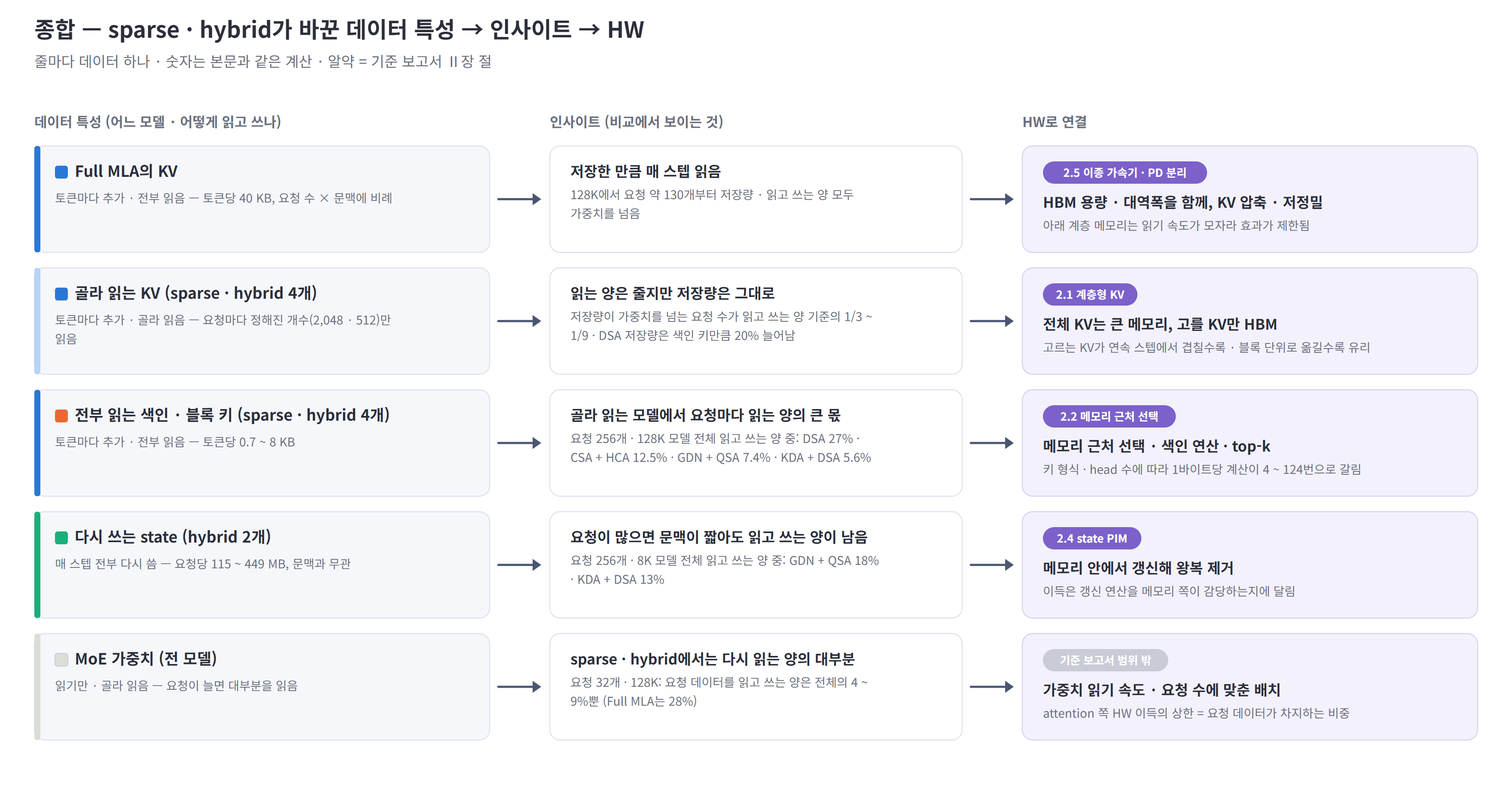
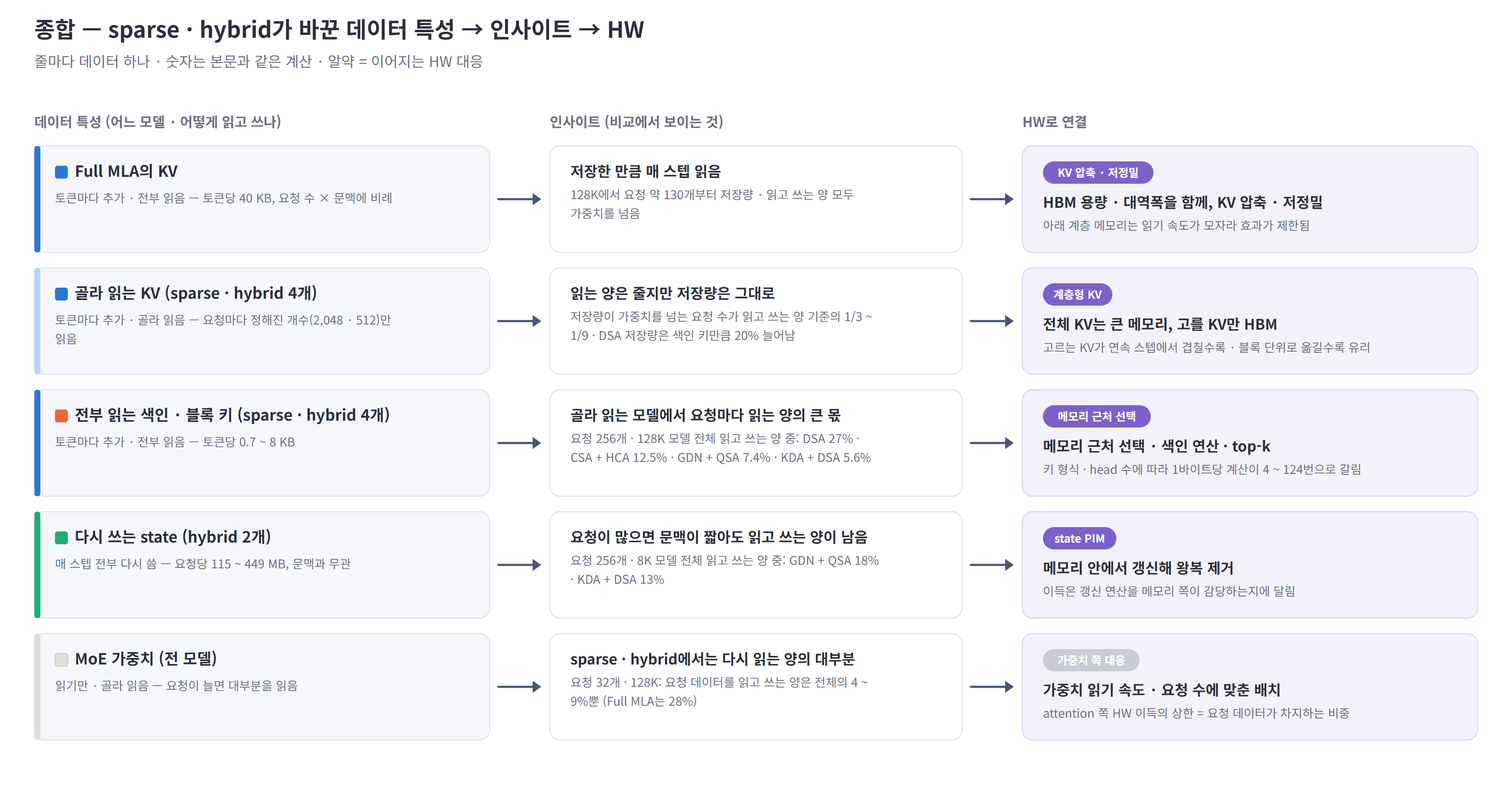
docs(dataflow): make the two synthesis reports self-contained
- Drop every mention of and link to the base report (Ⅱ장 section numbers,
  "기준 보고서 범위 밖", the 출발 보고서 comparison appendix)
- Drop links to per-model reports, to each other and to code; tool names
  stay as plain text in the analysis-conditions appendix
- HW pills in synthesis/compute figures show plain HW names
  (계층형 KV, state PIM, KV 압축 · 저정밀, attention 연산 분리 ...)
  via plain_secs(); shared make_criteria_figs keeps its default, so the
  per-model report figures are unchanged
- Re-letter the memory report appendix (C removed: D-G -> C-F)

diff --git a/arch_insight/dataflow-claude/report/make_synthesis_report.py b/arch_insight/dataflow-claude/report/make_synthesis_report.py
@@ -20,6 +20,7 @@ synth-sum             정리 — 특성 → 인사이트 → HW
 import math
 import os
 import sys
+from contextlib import contextmanager
 
 HERE = os.path.dirname(os.path.abspath(__file__))
 sys.path.insert(0, os.path.join(HERE, "..", "tools"))
@@ -558,7 +559,7 @@ TAKE = {
 SUM_ROWS = [
     ("Full MLA의 KV", "blue", "app_all", "토큰마다 추가 · 전부 읽음 — 토큰당 40 KB, 요청 수 × 문맥에 비례",
      "저장한 만큼 매 스텝 읽음", "128K에서 요청 약 130개부터 저장량 · 읽고 쓰는 양 모두 가중치를 넘음",
-     "HBM 용량 · 대역폭을 함께, KV 압축 · 저정밀", "아래 계층 메모리는 읽기 속도가 모자라 효과가 제한됨", "2.5"),
+     "HBM 용량 · 대역폭을 함께, KV 압축 · 저정밀", "아래 계층 메모리는 읽기 속도가 모자라 효과가 제한됨", "kv"),
     ("골라 읽는 KV (sparse · hybrid 4개)", "blue", "app_sel", "토큰마다 추가 · 골라 읽음 — 요청마다 정해진 개수(2,048 · 512)만 읽음",
      "읽는 양은 줄지만 저장량은 그대로", "저장량이 가중치를 넘는 요청 수가 읽고 쓰는 양 기준의 1/3 ~ 1/9 · DSA 저장량은 색인 키만큼 20% 늘어남",
      "전체 KV는 큰 메모리, 고를 KV만 HBM", "고르는 KV가 연속 스텝에서 겹칠수록 · 블록 단위로 옮길수록 유리", "2.1"),
@@ -586,7 +587,7 @@ def fig_sum():
     TOP = 170
     f = mr.Fig("synth-sum", W, TOP + sum(h_of(r) + 18 for r in rows) + 60)
     mr.title(f, "종합 — sparse · hybrid가 바꾼 데이터 특성 → 인사이트 → HW",
-             "줄마다 데이터 하나 · 숫자는 본문과 같은 계산 · 알약 = 기준 보고서 Ⅱ장 절")
+             "줄마다 데이터 하나 · 숫자는 본문과 같은 계산 · " + SEC_NOTE_PLAIN)
     for x, t in zip(X, ("데이터 특성 (어느 모델 · 어떻게 읽고 쓰나)", "인사이트 (비교에서 보이는 것)", "HW로 연결")):
         f.text(x, TOP - 22, t, 16, weight=700, color=mr.MUTED)
     y = TOP
@@ -629,6 +630,23 @@ PLAIN = [
     ("보관이 늘어남", "저장량이 늘어남"), ("read-only", "읽기만"), ("끝에 추가", "토큰마다 추가"),
     ("요청별 · ", "요청마다 · "),
 ]
+
+
+# HW 알약 — 종합 보고서는 다른 문서 절 번호 없이 대응 이름만
+SECS_PLAIN = {"2.1": "계층형 KV", "2.2": "메모리 근처 선택", "2.3": "색인 연산 · top-k", "2.4": "state PIM",
+              "2.5": "이종 가속기 · PD 분리", "-": "가중치 쪽 대응", "x": "대응 대상 아님",
+              "kv": "KV 압축 · 저정밀", "attn": "attention 연산 분리"}
+SEC_NOTE_PLAIN = "알약 = 이어지는 HW 대응"
+
+
+@contextmanager
+def plain_secs():
+    old = cf.SECS, cf.SEC_NOTE
+    cf.SECS, cf.SEC_NOTE = SECS_PLAIN, SEC_NOTE_PLAIN
+    try:
+        yield
+    finally:
+        cf.SECS, cf.SEC_NOTE = old
 
 
 def plain(v):
@@ -688,6 +706,7 @@ if __name__ == "__main__":
         fig_ctx()
         fig_share()
         fig_hbm()
-        fig_sum()
-        for _k in ("s_kind", "s_life", "s_char"):
-            cf.gen_fig(_k)
+        with plain_secs():
+            fig_sum()
+            for _k in ("s_kind", "s_life", "s_char"):
+                cf.gen_fig(_k)

diff --git a/arch_insight/dataflow-claude/report/make_compute_report.py b/arch_insight/dataflow-claude/report/make_compute_report.py
@@ -548,7 +548,7 @@ def fig_chain():
 SUM_ROWS = [   # (항목, 색 토큰, 왼쪽 띠 색, 특성, 인사이트, 인사이트 보조, HW, HW 보조, 절)
     ("attention 본체 (Full MLA에서 큼)", mr.BLUE, "KV 1줄을 head 64 ~ 128개가 같이 씀 — 1바이트당 180 ~ 420번 계산, 요청 수와 무관",
      "계산이 병목 — Full MLA는 긴 문맥 계산량의 97%", "Full MLA 요청 256개 · 128K: 이론 시간의 81%를 계산이 정함 · sparse는 고른 512 ~ 2,048줄만 계산해 시간 몫 5% 미만",
-     "계산이 병목인 attention과 메모리 읽기가 병목인 나머지를 나눠 배치", "sparse에서는 몫이 작아 attention 전용 연산기의 이득은 Full MLA에 한정", "2.5"),
+     "계산이 병목인 attention과 메모리 읽기가 병목인 나머지를 나눠 배치", "sparse에서는 몫이 작아 attention 전용 연산기의 이득은 Full MLA에 한정", "attn"),
     ("색인 · 블록 점수 (sparse · hybrid 4개)", mr.ORANGE, "문맥에 비례 — 토큰마다 지난 모든 키와 비교, 1바이트당 4 ~ 121번 계산",
      "sparse는 attention 계산을 색인으로 옮김", "DSA 128K 토큰당 계산량의 55%가 색인 · 색인 + attention이 문맥 약 4만부터 가중치 행렬곱을 넘음",
      "메모리 근처 색인 계산 — 저정밀 행렬 연산기", "필요한 계산 밀도가 모델마다 약 30배 차이 (GDN + QSA 4번 · DSA 121번)", "2.2"),
@@ -575,7 +575,7 @@ def fig_sum():
     TOP = 170
     f = mr.Fig("comp-sum", W, TOP + sum(h_of(r) + 18 for r in SUM_ROWS) + 60)
     mr.title(f, "종합 — 연산 특성 → 인사이트 → HW",
-             "줄마다 연산 묶음 하나 · 숫자는 본문과 같은 계산 · 알약 = 기준 보고서 Ⅱ장 절")
+             "줄마다 연산 묶음 하나 · 숫자는 본문과 같은 계산 · " + ms.SEC_NOTE_PLAIN)
     for x, t in zip(X, ("연산 특성 (어느 모델 · 어떤 연산)", "인사이트 (비교에서 보이는 것)", "HW로 연결")):
         f.text(x, TOP - 22, t, 16, weight=700, color=mr.MUTED)
     y = TOP
@@ -654,8 +654,9 @@ if __name__ == "__main__":
     if sys.argv[1:] == ["print"]:
         show()
     else:
-        for k in ("ops1", "ops2", "ops3"):
-            cf.gen_fig(k)
+        with ms.plain_secs():
+            for k in ("ops1", "ops2", "ops3"):
+                cf.gen_fig(k)
         fig_cat()
         fig_unit()
         fig_ai()
@@ -664,4 +665,5 @@ if __name__ == "__main__":
         fig_bound()
         fig_irr()
         fig_chain()
-        fig_sum()
+        with ms.plain_secs():
+            fig_sum()

diff --git a/arch_insight/dataflow-claude/report/make_criteria_figs.py b/arch_insight/dataflow-claude/report/make_criteria_figs.py
@@ -333,6 +333,7 @@ def fig_char_map():
 # ------------------------------------------------------------------ 정리 — 특성 → 인사이트 → HW
 SECS = {"2.1": "2.1 계층형 KV", "2.2": "2.2 메모리 근처 선택", "2.3": "2.3 색인 연산 · top-k", "2.4": "2.4 state PIM",
         "2.5": "2.5 이종 가속기 · PD 분리", "-": "기준 보고서 범위 밖", "x": "대응 대상 아님"}
+SEC_NOTE = "알약 = 기준 보고서 Ⅱ장 절"      # 종합 보고서는 make_synthesis_report.plain_secs()로 바꿔 그림
 # 행 = (데이터, 색, 성격 칸, 특성, 인사이트 제목, 인사이트 보조, HW 제목, HW 보조, 절)
 SUMMARY = {
     "mla-v31": [
@@ -538,7 +539,7 @@ def gen_fig(key):
     f.text(GL + 4, TOP - 24, lhead, 17, weight=800, color=MUTED)
     f.text(GR + 4, TOP - 24, rhead, 17, weight=800, color=MUTED)
     if any(r[0] != "#" and r[6] for r in rows):
-        f.text(W - 40, TOP - 24, "알약 = 기준 보고서 Ⅱ장 절", 14, "end", 600, MUTED)
+        f.text(W - 40, TOP - 24, SEC_NOTE, 14, "end", 600, MUTED)
     y = TOP
     for r in rows:
         h = rh(r)

diff --git a/arch_insight/dataflow-claude/report/synthesis-traits.md b/arch_insight/dataflow-claude/report/synthesis-traits.md
@@ -1,14 +1,14 @@
 # Sparse · Hybrid attention 종합 — 메모리 쪽에서 본 decode 1스텝
 
-종합 보고서 · 2026.11 · 모델별 보고서 5개를 같은 틀로 놓고 비교 · 짝 보고서: [연산 종합](synthesis-compute.md)
+종합 보고서 · 2026.11 · 모델 5개(기준선 1 · sparse 2 · hybrid 2)의 decode 1스텝을 같은 틀로 놓고 메모리 쪽에서 비교
 
 | 이 보고서의 이름 | 모델 | 구조 |
 |---|---|---|
-| **Full MLA** (기준선) | [DeepSeek-V3.1](mla-v31-traits.md) | 저장한 KV를 매 스텝 전부 읽음 |
-| **DSA** | [DeepSeek-V3.2](dsa-v32-traits.md) | sparse — 작은 색인 키로 고를 위치를 정하고, 고른 KV 2,048줄만 읽음 |
-| **CSA + HCA** | [DeepSeek-V4-Flash](csa-v4flash-traits.md) | sparse + 압축 — KV를 압축해 저장하고, 일부 층은 골라 읽음 |
-| **KDA + DSA** | [Kimi K3.1 Pro](kda-k3-traits.md) | hybrid — linear attention(KDA) 69층 + DSA 24층 |
-| **GDN + QSA** | [Qwen3.8-Flash-Next](qsa-qwen38-traits.md) | hybrid — linear attention(GDN) 36층 + 블록 단위로 골라 읽는 QSA 12층 |
+| **Full MLA** (기준선) | DeepSeek-V3.1 | 저장한 KV를 매 스텝 전부 읽음 |
+| **DSA** | DeepSeek-V3.2 | sparse — 작은 색인 키로 고를 위치를 정하고, 고른 KV 2,048줄만 읽음 |
+| **CSA + HCA** | DeepSeek-V4-Flash | sparse + 압축 — KV를 압축해 저장하고, 일부 층은 골라 읽음 |
+| **KDA + DSA** | Kimi K3.1 Pro | hybrid — linear attention(KDA) 69층 + DSA 24층 |
+| **GDN + QSA** | Qwen3.8-Flash-Next | hybrid — linear attention(GDN) 36층 + 블록 단위로 골라 읽는 QSA 12층 |
 
 > **이 보고서에서 쓰는 말**
 > - **저장량:** HBM에 저장해 둔 양
@@ -17,7 +17,7 @@
 > - **state:** linear attention이 요청마다 들고 있는 고정 크기의 상태값. 매 스텝 읽고 다시 씀
 > - **요청마다 쌓이는 데이터:** KV, 색인 키, state처럼 요청 하나에 딸린 데이터. 가중치는 모든 요청이 함께 씀
 
-<sub>그림 범례에도 attention 이름과 모델 이름이 함께 표시됨. H200 · decode 1스텝 · 이론 하한 기준. 계산 방법과 출처는 부록 E</sub>
+<sub>그림 범례에도 attention 이름과 모델 이름이 함께 표시됨. H200 · decode 1스텝 · 이론 하한 기준. 계산 방법과 출처는 부록 D</sub>
 
 ---
 
@@ -131,7 +131,7 @@
 - **GDN + QSA:** 2장 구성이면 요청 32개 · 128K부터 모자람 (3장 필요)
 - **DSA:** 색인 키를 더 저장해서 Full MLA보다 2장 더 필요 (17장 vs 15장)
 
-<sub>필요한 장수 = 저장량 ÷ H200 1장의 HBM 141 GB (올림). GPU별 배치(TP · EP · DP), 복제, 작업 공간은 반영 안 함. 다른 조건의 장수는 부록 G</sub>
+<sub>필요한 장수 = 저장량 ÷ H200 1장의 HBM 141 GB (올림). GPU별 배치(TP · EP · DP), 복제, 작업 공간은 반영 안 함. 다른 조건의 장수는 부록 F</sub>
 
 ---
 
@@ -139,20 +139,20 @@
 
 ![종합 — 데이터 특성 → 인사이트 → HW](figures/synth-sum.png)
 
-| HW 대응 (기준 보고서 Ⅱ장) | 무엇을 줄이나 | Full MLA | DSA | CSA + HCA | KDA + DSA | GDN + QSA | 먼저 검토할 모델 · 조건 |
+| HW 대응 | 무엇을 줄이나 | Full MLA | DSA | CSA + HCA | KDA + DSA | GDN + QSA | 먼저 검토할 모델 · 조건 |
 |---|---|---|---|---|---|---|---|
-| **2.1 계층형 KV** — 전체 KV는 아래 계층 메모리에, 고른 것만 HBM으로 | 골라 읽는 KV가 모델 전체 저장량에서 차지하는 비중 | — (KV를 전부 읽음) | 19% → **59%** | 7.5% → 36% | 6.8% → 34% | 29% → **73%** | GDN + QSA, DSA — 긴 문맥에서 요청이 70 ~ 110개를 넘을 때. 효과는 연속 스텝에서 고르는 KV가 얼마나 겹치는지에 달림 |
-| **2.2 메모리 근처 선택** — 색인 키를 메모리 쪽에서 읽고, 고른 위치만 칩으로 | 색인 키가 모델 전체 읽기·쓰기량에서 차지하는 비중 | — | 7.1% → **27%** | 3.2% → 13% | 1.7% → 5.6% | 2.4% → 7.4% | DSA — 요청이 많고 문맥이 길 때 |
-| **2.3 색인 연산 · top-k 유닛** — 색인 점수 계산과 상위 k개 고르기 전용 | 색인 키 1바이트당 계산 횟수 (메모리 쪽에 둘 연산기 크기의 기준) | — | 약 124번 | 약 124번 (FP8) | 약 62번 | 약 4번 | DSA, CSA + HCA — 모델 간 필요한 연산기 크기가 최대 약 30배 차이 |
-| **2.4 state PIM** — state 갱신을 메모리 안에서 처리 | state가 모델 전체 읽기·쓰기량에서 차지하는 비중 | — | — | — (창 · 압축기 0.5% 이하) | 3.6% → 12% (8K 13%) | 5.5% → **17%** (8K 18%) | GDN + QSA, KDA + DSA — 요청이 많고 문맥이 짧을 때 |
+| **계층형 KV** — 전체 KV는 아래 계층 메모리에, 고른 것만 HBM으로 | 골라 읽는 KV가 모델 전체 저장량에서 차지하는 비중 | — (KV를 전부 읽음) | 19% → **59%** | 7.5% → 36% | 6.8% → 34% | 29% → **73%** | GDN + QSA, DSA — 긴 문맥에서 요청이 70 ~ 110개를 넘을 때. 효과는 연속 스텝에서 고르는 KV가 얼마나 겹치는지에 달림 |
+| **메모리 근처 선택** — 색인 키를 메모리 쪽에서 읽고, 고른 위치만 칩으로 | 색인 키가 모델 전체 읽기·쓰기량에서 차지하는 비중 | — | 7.1% → **27%** | 3.2% → 13% | 1.7% → 5.6% | 2.4% → 7.4% | DSA — 요청이 많고 문맥이 길 때 |
+| **색인 연산 · top-k 유닛** — 색인 점수 계산과 상위 k개 고르기 전용 | 색인 키 1바이트당 계산 횟수 (메모리 쪽에 둘 연산기 크기의 기준) | — | 약 124번 | 약 124번 (FP8) | 약 62번 | 약 4번 | DSA, CSA + HCA — 모델 간 필요한 연산기 크기가 최대 약 30배 차이 |
+| **state PIM** — state 갱신을 메모리 안에서 처리 | state가 모델 전체 읽기·쓰기량에서 차지하는 비중 | — | — | — (창 · 압축기 0.5% 이하) | 3.6% → 12% (8K 13%) | 5.5% → **17%** (8K 18%) | GDN + QSA, KDA + DSA — 요청이 많고 문맥이 짧을 때 |
 | **KV 압축 · 저정밀** | 전부 읽는 KV가 모델 전체 읽기·쓰기량에서 차지하는 비중 | 28% → **66%** | — | (이미 압축) | — | — | Full MLA — 요청이 많고 문맥이 길 때 |
-| **가중치 읽기 · 배치** (2.5 · 기준 보고서 범위 밖) | MoE 가중치가 모델 전체 읽기·쓰기량에서 차지하는 비중 | 69% → 32% | 88% → 66% | 88% → **79%** | 85% → 77% | 85% → 69% | 전 모델 — 요청이 적거나 중간일 때 가장 큰 몫 |
+| **가중치 읽기 · 배치** | MoE 가중치가 모델 전체 읽기·쓰기량에서 차지하는 비중 | 69% → 32% | 88% → 66% | 88% → **79%** | 85% → 77% | 85% → 69% | 전 모델 — 요청이 적거나 중간일 때 가장 큰 몫 |
 
 <sub>비중 칸 = 요청 32개 · 128K → 요청 256개 · 128K(다섯 모델 모두 구성 장수로는 HBM이 모자람 · 4.2). 그 대응으로 줄일 수 있는 몫의 상한이며, 실제 이득은 고른 KV의 재사용률, 연산 능력, 전송 비용에 달림. SRAM 증설이나 커널 합치기가 줄이는 커널 사이 임시값은 모델 전체 읽기·쓰기량의 3% 이하라 표에서 뺌(부록 B). 키 1바이트당 계산 횟수는 저장 형식이 바뀌면 달라짐(CSA + HCA 색인 키를 MXFP4 68 B로 두면 약 241번)</sub>
 
 - **모델별로 먼저 볼 것:** Full MLA는 KV 압축 · 저정밀, DSA는 계층형 KV와 메모리 근처 선택, GDN + QSA는 계층형 KV와 state PIM, KDA + DSA는 state PIM, CSA + HCA는 가중치 쪽
 - **요청이 많아지면 계층형 KV는 모두에게 의미가 커짐:** KDA + DSA와 CSA + HCA도 요청 256개 · 128K에서는 저장량의 3분의 1 이상이 골라 읽는 KV
-- **구조가 섞일수록 필요한 대응도 섞임:** full은 KV 압축과 가중치, sparse는 여기에 2.1 · 2.2 · 2.3이 더해지고, hybrid는 2.4까지 필요. 층 종류별로 장치를 나눌지(2.5)는 대응별 비용 비교가 필요
+- **구조가 섞일수록 필요한 대응도 섞임:** full은 KV 압축과 가중치, sparse는 여기에 계층형 KV · 메모리 근처 선택 · 색인 연산이 더해지고, hybrid는 state PIM까지 필요. 층 종류별로 장치를 나눌지는 대응별 비용 비교가 필요
 
 #### 논의 · 확인할 점
 
@@ -173,7 +173,7 @@
 | **2. 수명** | 얼마나 오래 남나 | 서비스 내내 · 요청 동안 · 한 스텝 안 · 한 커널 안 | 오래 남을수록 칩 밖 큰 메모리, 금방 버릴수록 칩 안 |
 | **3. 읽고 쓰는 방식** | 어떻게 읽고 쓰나 | 읽기: 전부 · 골라 / 쓰기: 읽기만 · 토큰마다 한 줄 추가 · 덮어씀 · 매 스텝 다시 씀 · 임시 | 전부 읽으면 읽기 속도(대역폭), 골라 읽으면 저장 공간(용량), 다시 쓰면 쓰기 속도가 중요 |
 
-<sub>그림 공통: 왼쪽 = 분류와 뜻(예는 일반적인 LLM 데이터) → 오른쪽 = 필요한 HW 특성(알약 = 기준 보고서 Ⅱ장 절)</sub>
+<sub>그림 공통: 왼쪽 = 분류와 뜻(예는 일반적인 LLM 데이터) → 오른쪽 = 필요한 HW 특성(알약 = 이어지는 HW 대응)</sub>
 
 ![기준 1. 데이터 종류](figures/synth-crit-c1-kind.png)
 
@@ -188,7 +188,7 @@
 ![기준 3. 읽고 쓰는 방식](figures/synth-crit-c3-char.png)
 
 - 전부 읽는 데이터는 크기가 곧 스텝마다 읽는 양이라 읽기 속도가 중요하고, 골라 읽는 데이터는 저장 공간만 크게 차지함
-- 같은 '토큰마다 한 줄 추가'라도 골라 읽으면 큰 메모리에 두는 쪽(2.1), 전부 읽으면 메모리 쪽에서 처리하는 쪽(2.2)이 맞음
+- 같은 '토큰마다 한 줄 추가'라도 골라 읽으면 큰 메모리에 두는 쪽(계층형 KV), 전부 읽으면 메모리 쪽에서 처리하는 쪽(메모리 근처 선택)이 맞음
 
 #### 모델 5개의 데이터 — 종류별 수명과 읽고 쓰는 방식
 
@@ -221,19 +221,7 @@
 - 전부 읽는 요청 데이터(진파랑): Full MLA는 KV, DSA는 색인 키. DSA가 색인 키를 읽는 양은 Full MLA가 KV를 읽는 양의 약 1/5
 - 매 스텝 다시 쓰는 state(초록): hybrid에만 있고, KDA + DSA는 문맥 8K와 128K에서 같은 양
 
-### C. 출발 보고서 대비 — 결론은 그대로, 범위를 넓혀 '상한'과 '시점'이 새로 보임
-
-| 출발 보고서의 결론 (절) | 이번 분석 | 달라진 점 |
-|---|---|---|
-| Sparse + Hybrid 결합이면 읽기 3% · 저장 27% (1.3) | attention의 요청 데이터끼리 비교한 값. 모델 전체로 보면 요청 32개 · 128K에서 요청 데이터 읽기·쓰기는 전체의 4 ~ 9%(Full MLA 28%), 나머지는 가중치 | attention 쪽 HW 이득의 **상한**이 생김 (3장 · 5장) |
-| Sparse는 전체 KV를 저장해 용량 부담 유지 (1.3 · 2.1) | 저장량이 가중치를 넘는 요청 수가 읽기·쓰기량 기준의 1/3 ~ 1/9 (DSA 108 vs 592 · GDN + QSA 74 vs 656 · KDA + DSA 348 vs 1,137) | 저장 부담이 먼저 커지는 **시점을 수치로** → 계층형 KV 검토 근거 (4장) |
-| 색인 키 읽기는 길이에 비례, 128K에서 84% (1.4) | 128K 요청 하나의 읽기·쓰기 중 색인 키 DSA 93%(KV FP8 656 B 기준) · CSA + HCA 80% · KDA + DSA 30%(state 다음) | 색인 키 **형식**(FP8 132 B / MXFP4 68 B)과 색인 head 수가 결론을 바꿈 (1장 · 5장) |
-| state 왕복 약 230 MB, 32K에서 읽기·쓰기의 75% (1.6) | 문맥과 상관없고 요청 수에 비례 → 요청 256개 · 8K에서 모델 전체 읽기·쓰기의 13%(KDA + DSA) · 18%(GDN + QSA) | **요청 수**를 더하고 모델 전체 기준 비중으로 (2장 · 5장) |
-| 압축형(CSA + HCA)은 Full 대비 읽기 1.5% · 저장 12% (1.3 주석) | 같은 FP8 형식의 Full MLA 대비 요청 하나의 읽기·쓰기 98% 감소 · 저장 90% 감소 · 넘는 요청 수 300 / 1,372개 | 압축이 저장과 읽기를 **함께** 줄이는 유일한 구조 (2장) |
-| KV는 용량 부담, 색인 키 · state는 반복 접근 (1.7) | 세 기준(종류 · 수명 · 읽고 쓰는 방식)으로 모델 5개를 같은 분류에 놓음 | 모델마다 걸리는 분류의 **조합**이 다름 (부록 A · 5장) |
-| — | 요청 256개 · 128K는 다섯 모델 모두 구성 장수로는 HBM이 모자람 (Full MLA 8장 구성에 15장 필요) | 읽기·쓰기를 비교하기 전에 **HBM에 들어가는지부터** 판정 (4.2 · 부록 G) |
-
-### D. 모델 크기를 덜어 낸 값
+### C. 모델 크기를 덜어 낸 값
 
 | 모델 | 층 수 | 가중치 | 토큰당 요청 데이터 저장량 (전 층 합) | 층당 평균 | 요청당 고정 크기 | 128K 요청 1개 저장량 ÷ 가중치 |
 |---|---|---|---|---|---|---|
@@ -246,27 +234,26 @@
 - hybrid의 요청당 저장량이 Full MLA보다 작은 것은 KV를 가진 층이 적어서. KV를 가진 층만 보면 오히려 Full MLA보다 큼(BF16 형식)
 - 모델 크기와 무관한 비교는 마지막 열(요청 1개가 가중치 대비 차지하는 몫). 가중치가 작은 GDN + QSA가 가장 큼
 
-### E. 분석 조건
+### D. 분석 조건
 
 - **모델:** 맨 위 표. Full MLA와 DSA는 attention만 다른 같은 모델. KDA + DSA(Kimi K3.1 Pro)는 Kimi K3의 full attention(MLA) 24층을 Gated DSA로 바꾼 모델(폴더 이름은 kda-k3 그대로)
 - **기준:** H200 (HBM 4.8 TB/s · 141 GB · L2 50 MB), decode 1스텝, 이론 하한, 저장 형식은 각 algo.yaml 기본값
-- **그림:** 모델별 보고서는 구성 비율(합 = 100%), 이 보고서는 바이트 그대로 그려 모델끼리의 크기 차이까지 보임. 줄은 기준선 · Sparse · Hybrid로 묶음
+- **그림:** 바이트 그대로 그려 모델끼리의 크기 차이까지 보임. 줄은 기준선 · Sparse · Hybrid로 묶음
 - **조건:** 요청 1개 · 128K / 요청 256개 · 8K / 요청 256개 · 128K (5장 표는 요청 32개 · 128K도)
-- **출발점:** [기준 보고서](../../sparse-hybrid-hw-report-v2-refined.md) — 대비는 부록 C
-- **수치 · 그림:** [tools/traits.py](../tools/traits.py) · [make_synthesis_report.py](make_synthesis_report.py) · [make_criteria_figs.py](make_criteria_figs.py)
+- **수치 · 그림:** `tools/traits.py` · `make_synthesis_report.py` · `make_criteria_figs.py`
 
-### F. 비교의 한계
+### E. 비교의 한계
 
-- **모델 크기와 층 수가 다름:** 가중치 156 GB(CSA + HCA) ~ 1.56 TB(KDA + DSA), 층 43 ~ 93개. 바이트 막대에는 이 차이가 그대로 들어감. 크기를 덜어 낸 비교는 부록 D, 저장한 것 중 읽는 비율, 넘는 요청 수로 봄. attention만 다른 직접 비교는 Full MLA ↔ DSA뿐
+- **모델 크기와 층 수가 다름:** 가중치 156 GB(CSA + HCA) ~ 1.56 TB(KDA + DSA), 층 43 ~ 93개. 바이트 막대에는 이 차이가 그대로 들어감. 크기를 덜어 낸 비교는 부록 C, 저장한 것 중 읽는 비율, 넘는 요청 수로 봄. attention만 다른 직접 비교는 Full MLA ↔ DSA뿐
 - **형식:** Full MLA KV 656 B는 DSA와 같은 형식으로 맞춘 대조 조건(BF16 1,152 B면 요청 데이터가 1.76배). CSA + HCA는 KV 584 B · 색인 키 132 B(vLLM), KDA + DSA는 DSA 층 KV BF16 1,152 B · 색인 키 132 B(DSA 형식 가정) · state FP32, GDN + QSA는 KV BF16 2,048 B · 블록 키 BF16 256 B · state FP32
-- **MoE:** 균등 · 독립 라우팅 기댓값. 쏠리면 읽는 expert 수가 k개까지 줄고, 요청마다 다 다르면 min(E, 요청 수 × k)개. 모델별 범위는 각 보고서 부록
+- **MoE:** 균등 · 독립 라우팅 기댓값. 쏠리면 읽는 expert 수가 k개까지 줄고, 요청마다 다 다르면 min(E, 요청 수 × k)개
 - **한 스텝 안 · 한 커널 안 값:** 그린 층 1개만 셈(Full MLA와 DSA는 전 층이 같은 구조라 전부). 커널 안 값은 커널별 논리 크기의 합이며 동시 점유량이 아님
 - **DSA split-KV 부분 출력:** H200 스케줄이 확인되지 않아 모델 비교에서 뺌 (커널별 표에는 남김)
 - **검증:** 참조 구현 검증은 DSA(DeepSeek-V3.2)와 Qwen3.6 GDN만. 나머지는 config, 체크포인트 shape, 공개 코드로 세운 식이며 ChatGPT 검토 의견을 반영함
 - **용량 초과 조건:** 읽기·쓰기량은 같은 입력 조건의 바이트 비교. 시간 비교는 GPU별 배치가 필요
 - **제외:** MTP, 잔차, 정규화 값, GPU 간 통신, 가중치 복제(DP attention), GDN + QSA의 n-gram 표(host 102 GB), KDA + DSA의 DSA 층 중간값
 
-### G. 조건별로 필요한 H200 장수
+### F. 조건별로 필요한 H200 장수
 
 | 모델 (구성 장수) | 요청 1개 | 요청 32개 · 128K | 요청 256개 · 8K | 요청 256개 · 32K | 요청 256개 · 128K |
 |---|---|---|---|---|---|

diff --git a/arch_insight/dataflow-claude/report/synthesis-compute.md b/arch_insight/dataflow-claude/report/synthesis-compute.md
@@ -1,6 +1,6 @@
 # Sparse · Hybrid attention 종합 — 연산 쪽에서 본 decode 1스텝
 
-종합 보고서 · 2026.11 · [메모리 종합](synthesis-traits.md)의 짝 — 같은 모델 5개, 같은 조건을 연산 쪽에서 비교
+종합 보고서 · 2026.11 · 모델 5개(기준선 1 · sparse 2 · hybrid 2)의 decode 1스텝을 같은 틀로 놓고 연산 쪽에서 비교
 
 | 이 보고서의 이름 | 모델 | 구조 |
 |---|---|---|
@@ -41,7 +41,7 @@
 - 이 두 과정 때문에 sparse 층은 차례로 기다리는 단계가 2개 늘어남 — DSA는 모델 전체로 33% 증가
 - 실제 비용은 커널을 직접 재 봐야 알 수 있음
 
-<sub>요청 256개 · 128K는 다섯 모델 모두 구성 장수로는 HBM이 모자라는 조건 (예: Full MLA는 8장 구성인데 15장 필요 · 메모리 종합 4.2). 실제 배포 지연이 아니라 같은 입력에서의 비교로만 읽음</sub>
+<sub>요청 256개 · 128K는 다섯 모델 모두 구성 장수로는 HBM이 모자라는 조건 (예: Full MLA는 H200 8장 구성인데 15장 필요). 실제 배포 지연이 아니라 같은 입력에서의 비교로만 읽음</sub>
 
 **구성** — 1장 대표 비교(계산량 vs 시간) → 2장 이유(계산이 어디서 늘어나나, 계산기가 일하는 시간) → 3장 색인 뒤 비용(top-k, gather, 단계 수) → 4장 HW 검토
 
@@ -133,15 +133,15 @@
 
 ![종합 — 연산 특성 → 인사이트 → HW](figures/comp-sum.png)
 
-| HW 대응 (기준 보고서 Ⅱ장) | 무엇을 줄이나 | Full MLA | DSA | CSA + HCA | KDA + DSA | GDN + QSA | 먼저 검토할 모델 · 조건 |
+| HW 대응 | 무엇을 줄이나 | Full MLA | DSA | CSA + HCA | KDA + DSA | GDN + QSA | 먼저 검토할 모델 · 조건 |
 |---|---|---|---|---|---|---|---|
-| **2.2 · 2.3 메모리 근처 색인 계산** — 색인 키를 메모리 쪽에서 읽고 점수까지 계산 | 색인 계산이 모델 전체 시간에서 차지하는 비중 | — | 7.3% → **28%** | 3.3% → 13% | 1.7% → 5.7% | 2.4% → 7.5% | DSA — 요청이 많고 문맥이 길 때. 메모리 쪽 연산기는 읽기 속도 1 TB/s마다 FP8 약 121 TFLOP/s 필요 |
-| **2.4 state PIM** — state 갱신을 메모리 안에서 처리 | state 갱신이 모델 전체 시간에서 차지하는 비중 | — | — | — | 3.7% → 12% (8K 13%) | 5.5% → **17%** (8K 18%) | GDN + QSA, KDA + DSA — 요청이 많고 문맥이 짧을 때. 연산기는 1 TB/s마다 FP32 약 1 TFLOP/s면 충분 |
-| **2.3 top-k 전용 유닛** | 스텝마다 비교하는 후보 수 (요청 256개 · 128K) | — | **20.5억** | 1.76억 | 8.05억 | 1.01억 | DSA, KDA + DSA — 실제 top-k 처리 속도부터 측정 |
-| **2.1 · 2.2 블록 단위 gather** | 스텝마다 가져오는 덩어리 수 × 덩어리 크기 (요청 256개 · 128K) | — | **3,198만 × 656 B** | 275만 × 584 B | 1,258만 × 1,152 B | 157만 × 8 KB | DSA(한 줄씩) vs GDN + QSA(블록) — 덩어리 크기별 전송 효율 측정 |
+| **메모리 근처 색인 계산** — 색인 키를 메모리 쪽에서 읽고 점수까지 계산 | 색인 계산이 모델 전체 시간에서 차지하는 비중 | — | 7.3% → **28%** | 3.3% → 13% | 1.7% → 5.7% | 2.4% → 7.5% | DSA — 요청이 많고 문맥이 길 때. 메모리 쪽 연산기는 읽기 속도 1 TB/s마다 FP8 약 121 TFLOP/s 필요 |
+| **state PIM** — state 갱신을 메모리 안에서 처리 | state 갱신이 모델 전체 시간에서 차지하는 비중 | — | — | — | 3.7% → 12% (8K 13%) | 5.5% → **17%** (8K 18%) | GDN + QSA, KDA + DSA — 요청이 많고 문맥이 짧을 때. 연산기는 1 TB/s마다 FP32 약 1 TFLOP/s면 충분 |
+| **top-k 전용 유닛** | 스텝마다 비교하는 후보 수 (요청 256개 · 128K) | — | **20.5억** | 1.76억 | 8.05억 | 1.01억 | DSA, KDA + DSA — 실제 top-k 처리 속도부터 측정 |
+| **블록 단위 gather** | 스텝마다 가져오는 덩어리 수 × 덩어리 크기 (요청 256개 · 128K) | — | **3,198만 × 656 B** | 275만 × 584 B | 1,258만 × 1,152 B | 157만 × 8 KB | DSA(한 줄씩) vs GDN + QSA(블록) — 덩어리 크기별 전송 효율 측정 |
 | **커널 합치기** | 모델 전체에서 차례로 기다리는 단계 수 | 366 | 488 | 214 | **537** | 240 | KDA + DSA, DSA — 요청이 적을 때(아주 짧은 커널이 많음) |
-| **2.5 attention 연산 분리** — 계산이 병목인 attention을 따로 처리 | attention이 모델 전체 시간에서 차지하는 비중 | 44% → **80%** | 1.1% → 4.3% | 0.9% → 3.5% | 0.2% → 0.8% | 1.2% → 3.7% | Full MLA만 — 요청이 많고 문맥이 길 때. sparse와 hybrid는 5% 미만 |
-| **가중치 읽기 · 배치** (기준 보고서 범위 밖) | MoE 가중치 읽기가 모델 전체 시간에서 차지하는 비중 | 54% → 19% | 88% → 65% | 88% → **79%** | 85% → 76% | 85% → 69% | 전 모델 — 요청이 적거나 중간일 때 가장 큰 몫 |
+| **attention 연산 분리** — 계산이 병목인 attention을 따로 처리 | attention이 모델 전체 시간에서 차지하는 비중 | 44% → **80%** | 1.1% → 4.3% | 0.9% → 3.5% | 0.2% → 0.8% | 1.2% → 3.7% | Full MLA만 — 요청이 많고 문맥이 길 때. sparse와 hybrid는 5% 미만 |
+| **가중치 읽기 · 배치** | MoE 가중치 읽기가 모델 전체 시간에서 차지하는 비중 | 54% → 19% | 88% → 65% | 88% → **79%** | 85% → 76% | 85% → 69% | 전 모델 — 요청이 적거나 중간일 때 가장 큰 몫 |
 
 <sub>비중 칸 = 요청 32개 · 128K → 요청 256개 · 128K(다섯 모델 모두 구성 장수로는 HBM이 모자람). 그 대응으로 줄일 수 있는 이론 시간의 상한이며, 실제 이득은 연산기 성능, 전송 비용, 커널을 합칠 수 있는지에 달림. 메모리 쪽 연산기 크기 = 1바이트당 계산 횟수 × 메모리 쪽 읽기 속도(예: 121번 × 1 TB/s = 121 TFLOP/s)</sub>
 
@@ -198,9 +198,9 @@
 - full → sparse: attention 계산량이 1/64로 줄고, 색인 계산이 새로 생김(DSA는 attention 본체의 3.8배)
 - hybrid: 문맥 쪽 연산이 일부 층에만 있어 계산량 대부분이 가중치 행렬곱. state 갱신 행이 새로 생김
 
-### B. 메모리 종합과 이어 읽기
+### B. 메모리 쪽 특성과 이어 보기
 
-| 메모리 종합의 결론 | 연산 종합에서 본 것 | 이어지는 점 |
+| 메모리 쪽 특성 | 연산 쪽에서 본 것 | 이어지는 점 |
 |---|---|---|
 | 색인 키는 토큰마다 추가되고 매 스텝 전부 읽힘 | 색인 계산은 1바이트당 4 ~ 121번 · 문맥에 비례 | 메모리 쪽으로 옮길 때 필요한 연산기 크기가 모델마다 약 30배 차이 |
 | state는 매 스텝 전부 다시 씀 | state 갱신은 1바이트당 약 0.9번 · 계산량 1.4% 이하 | PIM에 필요한 연산은 행렬 × 벡터와 원소별 연산뿐 |
@@ -215,16 +215,16 @@
 - **이론 시간:** 커널마다 max(HBM 바이트 ÷ 대역폭, 계산량 ÷ 그 연산기 피크)의 합, H200 1장 환산(여러 장에 나눠 담으면 장수만큼 줄어듦)
 - **조건:** 요청 1개 · 128K / 요청 256개 · 8K / 요청 256개 · 128K (4장 표는 요청 32개 · 128K도)
 - **범위:** 그린 층은 각 모델 약식 화면의 커널 그대로, 그린 층 밖(다른 층 종류 · MoE · LM head)은 `models/*/ops.yaml` 식
-- **수치 · 그림:** [tools/ops.py](../tools/ops.py) · [make_compute_report.py](make_compute_report.py)
+- **수치 · 그림:** `tools/ops.py` · `make_compute_report.py`
 
 ### D. 비교의 한계
 
 - **이론 시간:** H200 1장 환산 합. 실행 지연, 동기화, gather 비효율, top-k 처리 속도는 빠짐 (top-k와 gather는 바이트 ÷ 대역폭만)
-- **메모리 초과 조건:** 요청 256개 · 128K는 다섯 모델 모두 구성 장수로는 HBM이 모자람 (Full MLA 8장 구성에 15장 필요 · 메모리 종합 4.2 · 부록 G) — 같은 입력의 구성 비교로만 읽음
+- **메모리 초과 조건:** 요청 256개 · 128K는 다섯 모델 모두 구성 장수로는 HBM이 모자람 (Full MLA는 H200 8장 구성인데 15장 필요) — 같은 입력의 구성 비교로만 읽음
 - **그린 층 밖 연산:** KDA + DSA의 DSA 24층, GDN + QSA의 GDN 36층, CSA + HCA의 HCA · 창 층, MoE는 `ops.yaml` 식 (model.yaml과 같은 형식 가정). 단계 수는 같은 구조 모델의 배치로 대신 셈(KDA + DSA의 DSA 층 ← DSA, GDN 층 ← Qwen3.6, HCA ← CSA에서 색인 · top-k를 뺀 것)
 - **정밀도:** CSA + HCA와 KDA + DSA의 FP4 · MXFP4 expert는 H200에 FP4 Tensor core가 없어 BF16로 풀어 계산한다고 가정
-- **MoE:** 균등 · 독립 라우팅 기댓값 (메모리 종합과 같음)
-- **제외:** 잔차, RMSNorm, 임베딩 조회, MTP, GPU 간 통신, DSA split-KV 합치기(메모리 종합과 같은 처리)
+- **MoE:** 균등 · 독립 라우팅 기댓값
+- **제외:** 잔차, RMSNorm, 임베딩 조회, MTP, GPU 간 통신, DSA split-KV 합치기
 - **CSA + HCA 출력 LoRA 계산량 수정:** 그룹 8개를 모두 세도록 algo.yaml 식을 고침(2026-11-23). 층 계산량 0.818 → 0.877 G, 이 커널은 메모리 읽기가 시간을 정해 시간은 그대로
 - **검증:** 참조 구현 검증은 DSA(DeepSeek-V3.2)와 Qwen3.6 GDN만. 나머지는 config와 공개 코드로 세운 식
 
